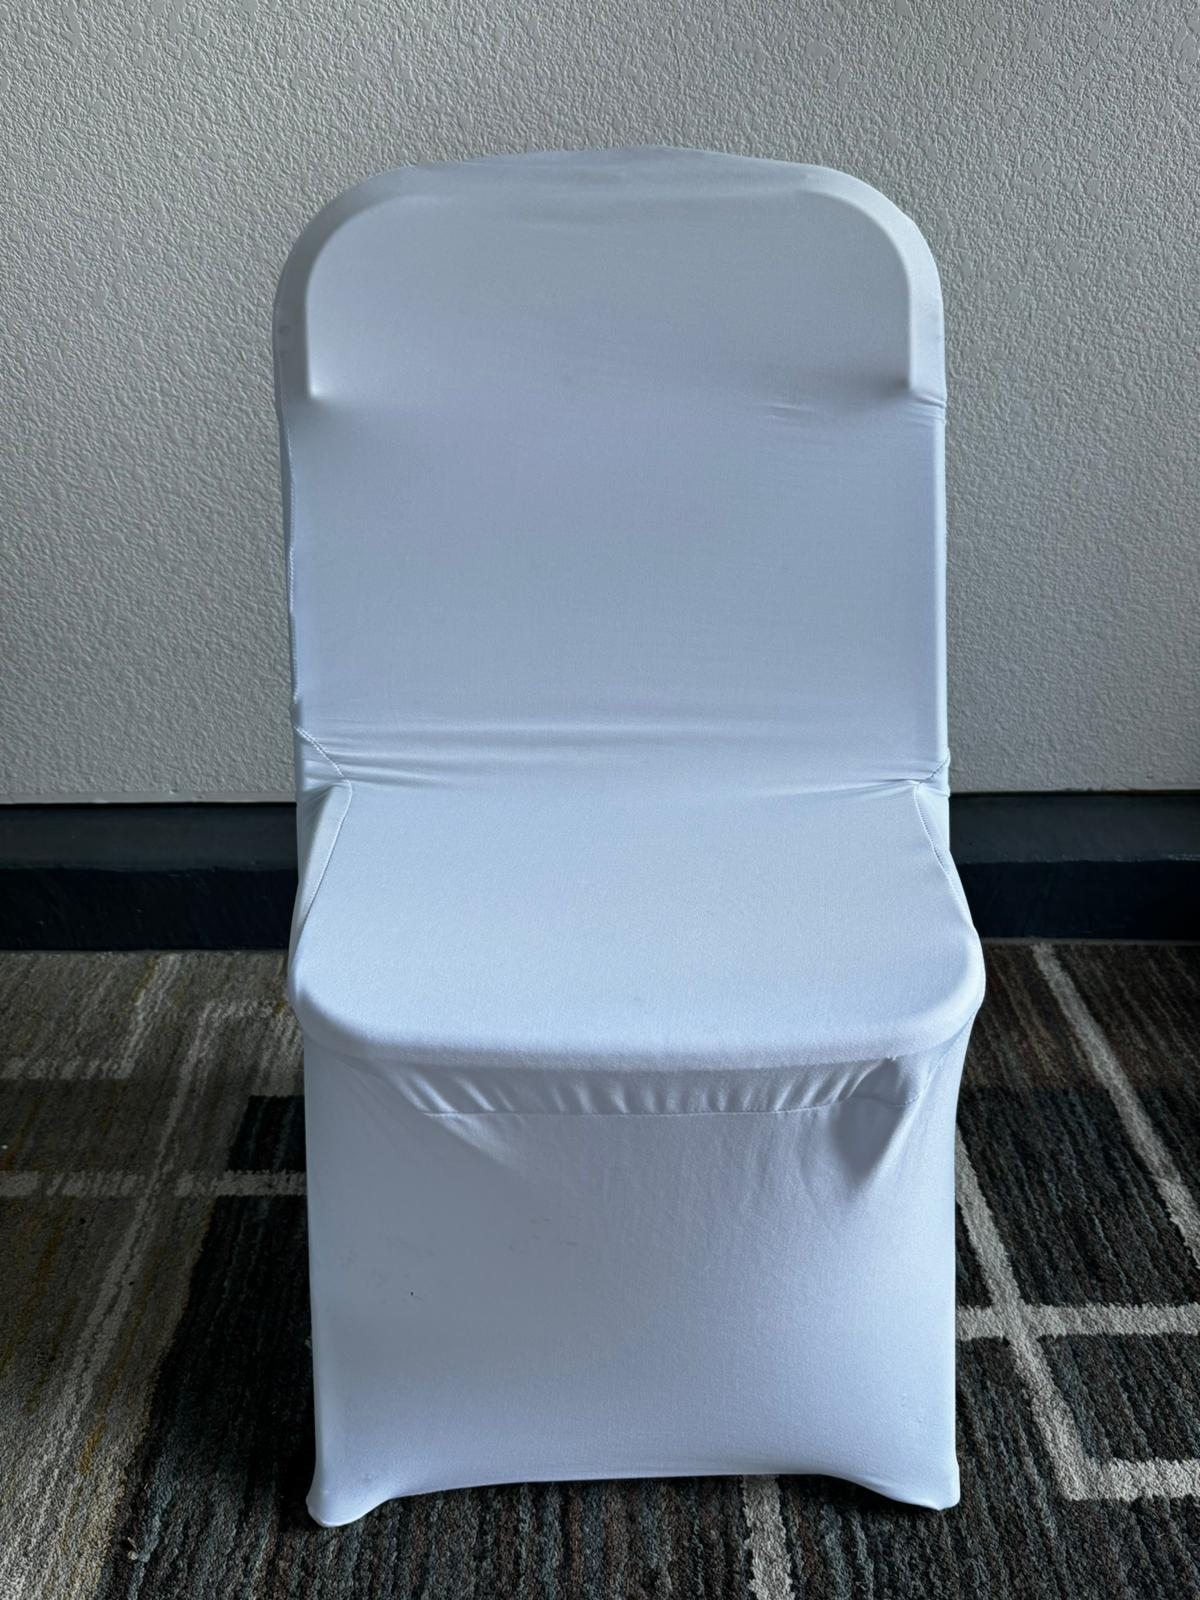
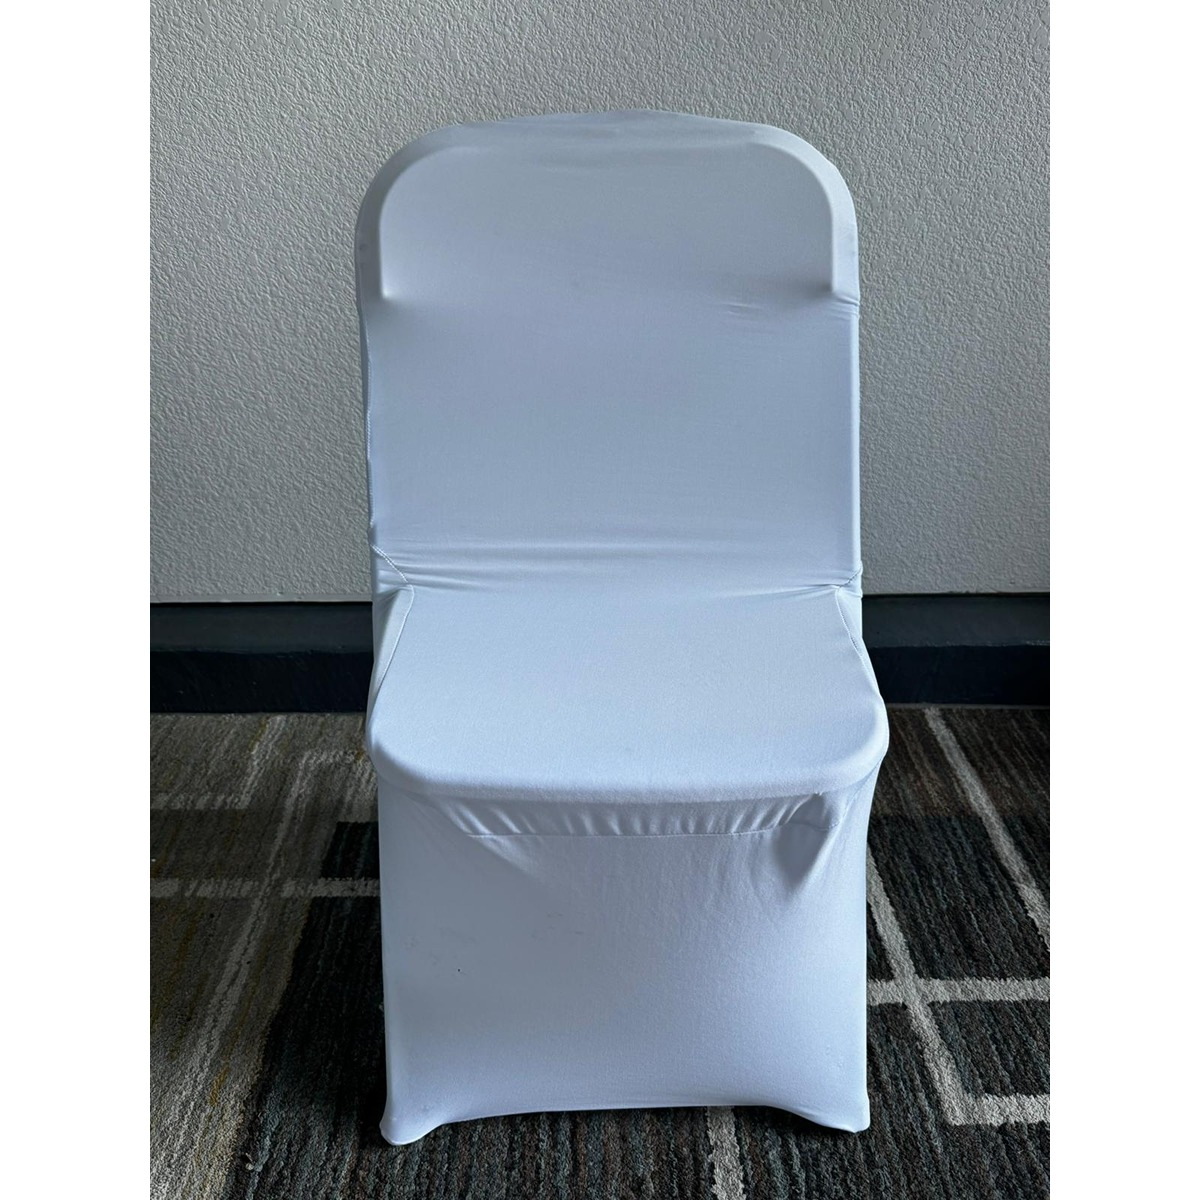
reduce size of item card

diff --git a/catalog.html b/catalog.html
@@ -103,12 +103,12 @@ https://templatemo.com/tm-591-villa-agency
         </li>
       </ul>
       <div class="row properties-box">
-        <div class="col-lg-4 col-md-6 align-self-center mb-30 properties-items col-md-6 seat">
+        <div class="col-lg-4 col-md-6 align-self-center mb-50 properties-items seat">
           <div class="item">
             <img src="assets/images/chair.jpg" alt="">
             <span class="category">Seating</span>
             <h6>$1</h6>
-            <h4>Chair</a></h4>
+            <h5>Chair</a></h5>
             <ul>
               <li>Chair Color : <span>White</span></li>
               <li>Cover Color : <span>N/A</span></li>
@@ -116,12 +116,12 @@ https://templatemo.com/tm-591-villa-agency
             </ul>
           </div>
         </div>
-        <div class="col-lg-4 col-md-6 align-self-center mb-30 properties-items col-md-6 seat">
+        <div class="col-lg-4 col-md-6 align-self-center mb-30 properties-items seat">
           <div class="item">
             <img src="assets/images/chair-cover.jpg" alt="">
             <span class="category">Seating</span>
             <h6>$2</h6>
-            <h4>Chair With Cover</a></h4>
+            <h5>Chair With Cover</a></h5>
             <ul>
               <li>Chair Color : <span>White</span></li>
               <li>Cover Color : <span>White</span></li>
@@ -129,12 +129,12 @@ https://templatemo.com/tm-591-villa-agency
             </ul>
           </div>
         </div>
-        <div class="col-lg-4 col-md-6 align-self-center mb-30 properties-items col-md-6 seat">
+        <div class="col-lg-4 col-md-6 align-self-center mb-30 properties-items seat">
           <div class="item">
             <img src="assets/images/chair-cover-sash.jpg" alt="">
             <span class="category">Seating</span>
             <h6>$2.25</h6>
-            <h4>Chair With Cover And Sash</a></h4>
+            <h5>Chair With Cover And Sash</a></h5>
             <ul>
               <li>Chair Color : <span>White</span></li>
               <li>Cover Color : <span>White</span></li>
@@ -142,56 +142,56 @@ https://templatemo.com/tm-591-villa-agency
             </ul>
           </div>
         </div>
-        <div class="col-lg-4 col-md-6 align-self-center mb-30 properties-items col-md-6 tbl">
+        <div class="col-lg-4 col-md-6 align-self-center mb-30 properties-items tbl">
           <div class="item">
             <img src="assets/images/table-round-48-inch.jpg" alt="">
             <span class="category">Table</span>
             <h6>$8</h6>
-            <h4>Table (Round) 48"</a></h4>
+            <h5>Table (Round) 48"</a></h5>
             <ul>
               <li>Table Color : <span>White</span></li>
             </ul>
           </div>
         </div>
-        <div class="col-lg-4 col-md-6 align-self-center mb-30 properties-items col-md-6 tbl">
+        <div class="col-lg-4 col-md-6 align-self-center mb-30 properties-items tbl">
           <div class="item">
             <img src="assets/images/table-rectangular-72-inch.jpg" alt="">
             <span class="category">Table</span>
             <h6>$8</h6>
-            <h4>Table (Rectangular) 72"</a></h4>
+            <h5>Table (Rectangular) 72"</a></h5>
             <ul>
               <li>Table Color : <span>White</span></li>
             </ul>
           </div>
         </div>
-        <div class="col-lg-4 col-md-6 align-self-center mb-30 properties-items col-md-6 rac dcr">
+        <div class="col-lg-4 col-md-6 align-self-center mb-30 properties-items dcr">
           <div class="item">
             <img src="assets/images/cake-stands.jpg" alt="">
             <span class="category">Decoration</span>
             <h6>Set $20 (Each $8)</h6>
-            <h4>Cake Stands</a></h4>
+            <h5>Cake Stands</a></h5>
             <ul>
               <li>Color : <span>White</span></li>
             </ul>
           </div>
         </div>
-        <div class="col-lg-4 col-md-6 align-self-center mb-30 properties-items col-md-6 srv">
+        <div class="col-lg-4 col-md-6 align-self-center mb-30 properties-items srv">
           <div class="item">
             <img src="assets/images/chafer.jpg" alt="">
             <span class="category">Serving</span>
             <h6>$8</h6>
-            <h4>Chafer</a></h4>
+            <h5>Chafer</a></h5>
             <ul>
               <li>Material : <span>Steel</span></li>
             </ul>
           </div>
         </div>
-        <div class="col-lg-4 col-md-6 align-self-center mb-30 properties-items col-md-6 tnt">
+        <div class="col-lg-4 col-md-6 align-self-center mb-30 properties-items tnt">
           <div class="item">
             <img src="assets/images/tent-20-feet.jpg" alt="">
             <span class="category">Tents</span>
             <h6>$150</h6>
-            <h4>Tent</a></h4>
+            <h5>Tent</a></h5>
             <ul>
               <li>Size : <span>20' x 20'</span></li>
             </ul>

diff --git a/assets/css/templatemo-villa-agency.css b/assets/css/templatemo-villa-agency.css
@@ -897,14 +897,16 @@ Properties Style
   background-color: #fafafa;
   border-radius: 10px;
   padding: 30px;
-  margin-bottom: 10px;
+  margin: 0 25px 50px 25px;
 }
 
 .properties .item img {
   border-radius: 10px;
-  border-color: black;
-  border-width: 1px;
-  border-style: solid;
+  width: 266px;
+  height: 200px;
+  object-fit: contain;
+  margin: auto;
+  display: block;
 }
 
 .properties .item span.category {
@@ -918,13 +920,15 @@ Properties Style
   margin-top: 25px;
 }
 
-.properties .item h4 {
+.properties .item h5 {
   font-size: 15px;
   text-align: center;
   margin: 25px 0px;
+  border-top: 1px solid #eaeaea;
+  padding-top: 10px;
 }
 
-.properties .item h4 a {
+.properties .item h5 a {
   color: #1e1e1e;
 }
 
@@ -938,10 +942,6 @@ Properties Style
 .properties .item ul li span {
   font-weight: 500;
   color: #1e1e1e;
-}
-
-.properties .item ul {
-  border-bottom: 1px solid #eaeaea;
 }
 
 .properties .item h6 {

diff --git a/index.html b/index.html
@@ -51,9 +51,6 @@
                       <li><a href="index.html" class="active">Home</a></li>
                       <li><a href="catalog.html">Catalog</a></li>
                   </ul>   
-                    <a class='menu-trigger'>
-                        <span>Menu</span>
-                    </a>
                     <!-- ***** Menu End ***** -->
                 </nav>
             </div>
